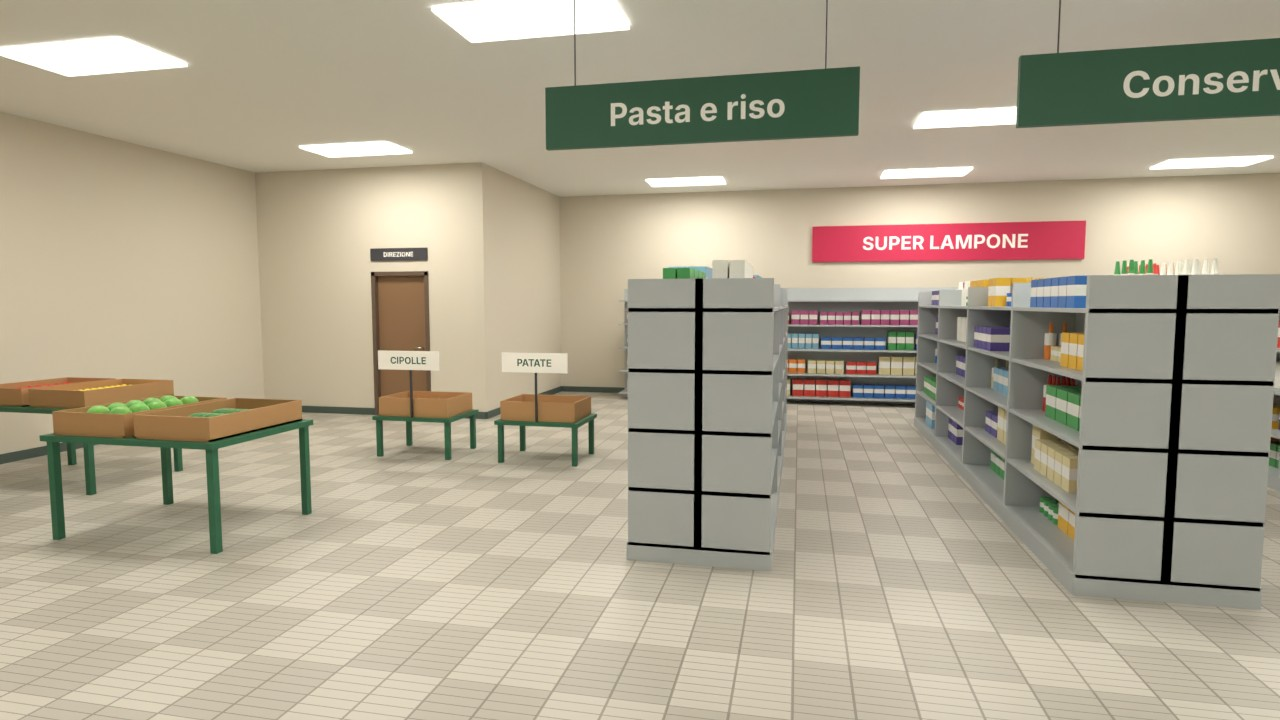
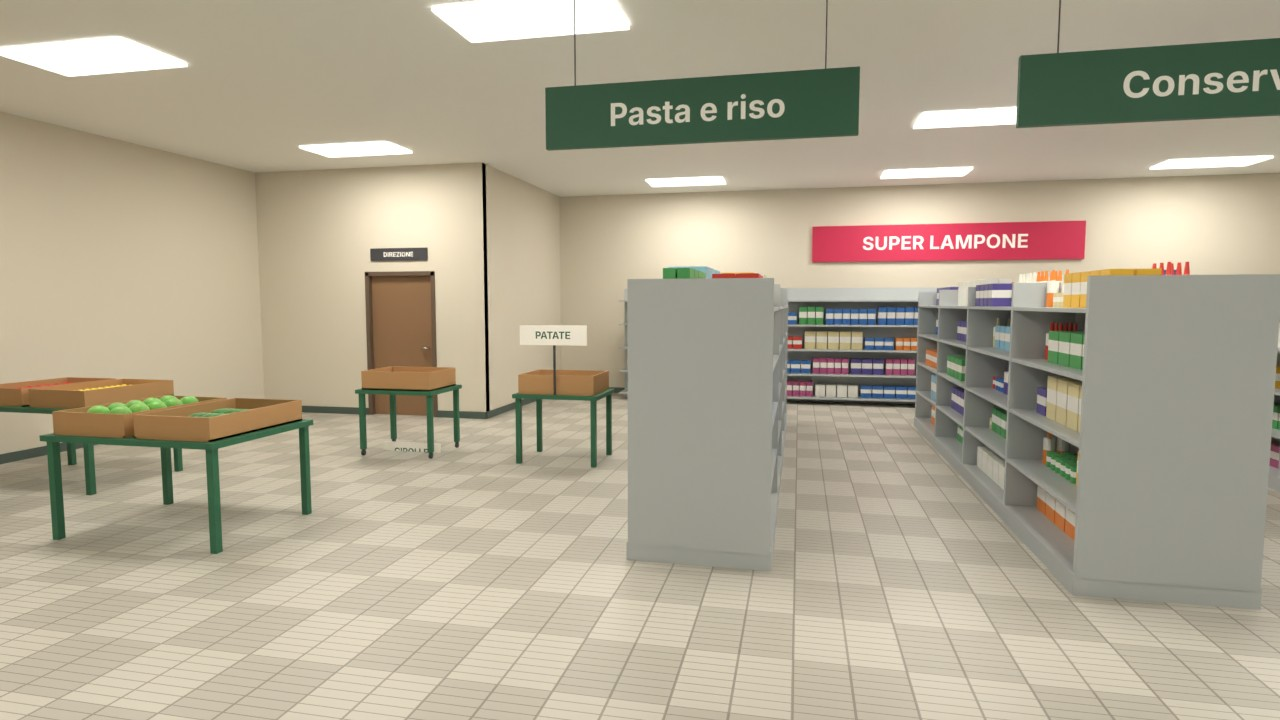
Comedy Studio EP01: turns start from the real facing, handle release via outward pose, door frame z-fighting fix, updated blockout views
Claude-Session: https://claude.ai/code/session_011UmaMWo5J2cXGw4S1xNw8d

diff --git a/SPESORA_COMEDY_STUDIO/scripts/ep01_animatic.py b/SPESORA_COMEDY_STUDIO/scripts/ep01_animatic.py
@@ -307,7 +307,8 @@ def _door_pose(t, W):
     R = Wi.to_3x3()
     return {**phone_low_L(P.ch), "hand.R": (tuple(Wi @ wrist), tuple(R @ fd), tuple(R @ palm)), "fingers.R": (35, 38, 40, 20)}
 P.pose(69.2, _door_pose)
-P.pose(70.0, {**phone_low_L(P.ch), "hand.L": ((0.14, -0.36, 0.86), (0.2, -0.3, 1.0), (-0.6, 0.6, 0.0)), "hand.R": ((-0.24, -0.42, 0.9), (-0.2, -0.3, 1.0), (0.6, 0.6, 0.0)),
+P.pose(69.7, {**phone_low_L(P.ch), "hand.R": ((-0.45, -0.35, 1.0), (-0.3, -0.5, 0.8), (0.8, 0.2, 0.0)), "elbow.R": (-0.7, 0.15, 0.9)})  # lascia la maniglia verso l'esterno
+P.pose(70.05, {**phone_low_L(P.ch), "hand.L": ((0.14, -0.36, 0.86), (0.2, -0.3, 1.0), (-0.6, 0.6, 0.0)), "hand.R": ((-0.24, -0.42, 0.9), (-0.2, -0.3, 1.0), (0.6, 0.6, 0.0)),
               "elbow.R": (-0.55, 0.2, 0.8), "elbow.L": (0.28, 0.4, 0.72)})                       # passa la porta con le mani davanti (spalle strette)
 P.walk(70.2, DOOR_POS, (-5.65, 11.45), "imbarazzato", overrides=dict(arm_sw=0.0))
 P.gaze(71.2, "direttore")
@@ -1007,7 +1008,8 @@ if MODE == "qc":
     for (test, what, sid), (v, t) in sorted(agg.items()):
         summary.setdefault(test, {}).setdefault(what, {})[sid] = dict(massimo=v, t=t)
     json.dump(dict(fotogrammi_controllati=nfr, passo=STEP, intervallo_s=[f0 / FPS, f1 / FPS], problemi=events, massimi_per_inquadratura=summary,
-                   movimenti_spostati={n: A[n].shifts for n in CAST}, giri_prima_delle_camminate={n: A[n].auto_turns for n in CAST}, gomiti=ELBOW_LOG),
+                   movimenti_spostati={n: A[n].shifts for n in CAST}, giri_prima_delle_camminate={n: A[n].auto_turns for n in CAST},
+                   giri_corretti={n: A[n].turn_fixes for n in CAST}, gomiti=ELBOW_LOG),
               open(os.path.join(OUT, f"qc_completo_{f0}_{f1}.json"), "w"), ensure_ascii=False, indent=1)
     print("ok qc", nfr, "fotogrammi", len(events), "problemi", round(time.time() - t_start), "s")
     sys.exit(0)

diff --git a/SPESORA_COMEDY_STUDIO/scripts/cs_actor.py b/SPESORA_COMEDY_STUDIO/scripts/cs_actor.py
@@ -123,6 +123,7 @@ class Actor:
         self.busy_until = -1.0
         self.shifts = []  # movimenti spostati perché il precedente non era finito
         self.auto_turns = []  # giri inseriti prima delle camminate
+        self.turn_fixes = []  # giri il cui angolo di partenza scritto non coincideva con quello reale
 
     # ---------------- costruzione della linea temporale
     def hold(self, t0, pos, facing):
@@ -156,6 +157,10 @@ class Actor:
 
     def turn(self, t0, pos, f0, f1, dur=0.55):
         t0 = self._start(t0, f"giro a {f1:.0f}°")
+        cur = self.facing_at(t0)   # il giro parte sempre dalla direzione reale del corpo (altrimenti i piedi «saltano»)
+        if cur is not None and abs((cur - f0 + 180) % 360 - 180) > 0.5:
+            self.turn_fixes.append(dict(t=round(t0, 2), scritto=round(f0, 1), reale=round(cur, 1)))
+            f0 = cur
         self.busy_until = t0 + dur
         self.loco.append(Turn(self.ch, t0, pos, f0, f1, dur))
         self.loco.append(Hold(self.ch, t0 + dur, pos, f0 + ((f1 - f0 + 180) % 360 - 180)))

diff --git a/SPESORA_COMEDY_STUDIO/scripts/cs_market.py b/SPESORA_COMEDY_STUDIO/scripts/cs_market.py
@@ -365,7 +365,8 @@ class Market:
         fw = 0.06
         for x in (o["door_x0"] + fw / 2 - 0.005, o["door_x1"] - fw / 2 + 0.005):
             add_box(bm, (x, y, o["door_h"] / 2), (fw, ti + 0.03, o["door_h"]))
-        add_box(bm, ((o["door_x0"] + o["door_x1"]) / 2, y, o["door_h"] - fw / 2 + 0.005), (o["door_x1"] - o["door_x0"], ti + 0.03, fw))
+        # traverso 2 mm più profondo dei montanti per lato: facce frontali non complanari (prima: quadratini scuri da z-fighting agli angoli)
+        add_box(bm, ((o["door_x0"] + o["door_x1"]) / 2, y, o["door_h"] - fw / 2 + 0.005), (o["door_x1"] - o["door_x0"], ti + 0.034, fw))
         self.put("porta_telaio", finish("porta_telaio", bm, [self.M["telaio"]]))
         # anta: cerniera sul montante sinistro, si apre verso l'interno dell'ufficio (+y)
         hx = o["door_x0"] + fw - 0.005 + 0.003      # 3 mm di gioco dal montante anche ad anta aperta
